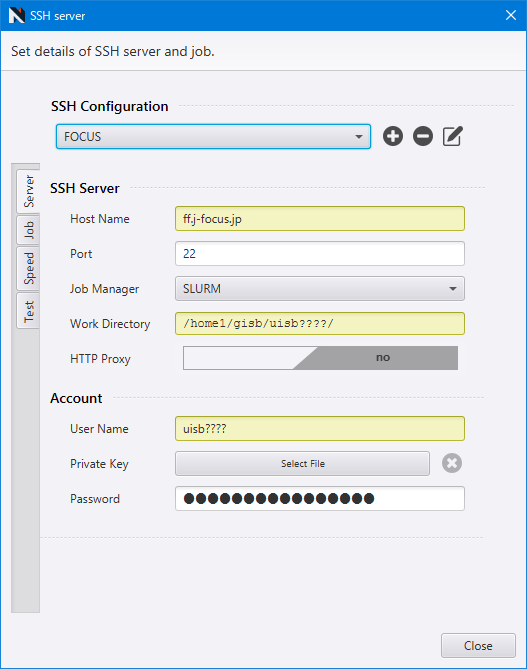
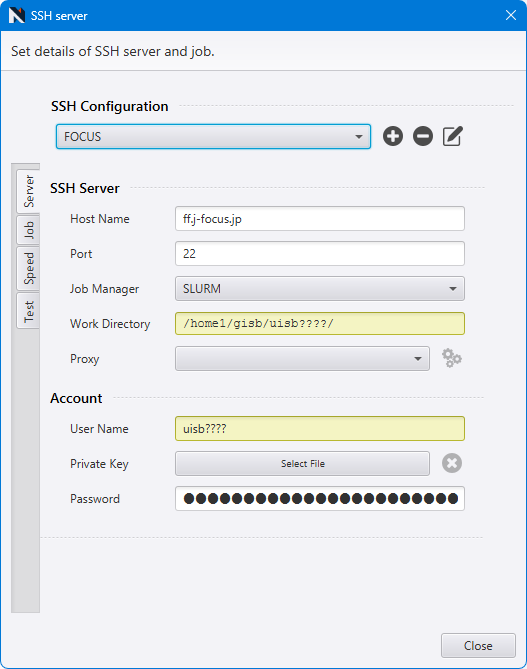
add ProxyCommand description

diff --git a/docs/source/usage/sshserver.rst b/docs/source/usage/sshserver.rst
@@ -48,7 +48,15 @@ Serverタブの設定
    計算で使用するファイルの転送先（サーバー上のディレクトリパス）を入力します。書き込み権限のある場所を指定してください。通常、ユーザーのホームディレクトリを指定すれば問題ありません。
 
 - Proxy Type
-   サーバーへの接続にプロキシを使用します。 :menuselection:`Network --> Proxy server` で設定したプロキシが使われます。インターネットへの接続にプロキシが必要な環境で、外部のクラウド仮想マシン等に計算ジョブを投入する際にお使いいただけます。
+   サーバーへの接続にプロキシを使用します。インターネットへの接続にプロキシが必要な環境で、外部のクラウド仮想マシン等に計算ジョブを投入する際にお使いいただけます。
+
+   - HTTP / SOCKS4 / SOCKS5
+
+      指定した形式のプロキシを使用します。デフォルトでは全体設定（\ :menuselection:`Network --> Proxy server`\ で設定したプロキシ）を使います。このサーバーに個別の設定を行う場合は、 |gearicon| をクリックしてください。
+
+   - Command
+
+      コマンドで接続する形式（ ``aws ssm start-session`` など）の場合にこちらを指定し、 |gearicon| からコマンドを設定してください。
 
 - Account
    サーバーにSSH接続する際のアカウント情報を入力します。
@@ -65,6 +73,7 @@ Serverタブの設定
 
 設定内容に問題がなければ、タブが白色になります。問題がある場合はその項目が赤色で表示されますので、確認してください。
 
+.. |gearicon| image:: /img/gear.png
 .. |clear| image:: /img/clear.png
 
 .. _ssh_jobtab:
